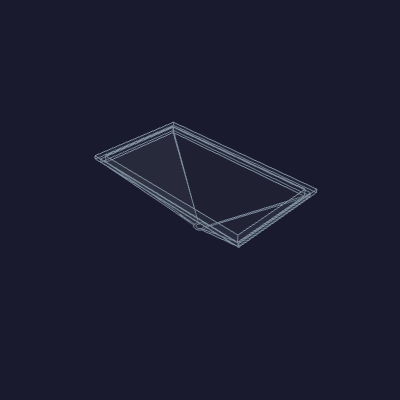
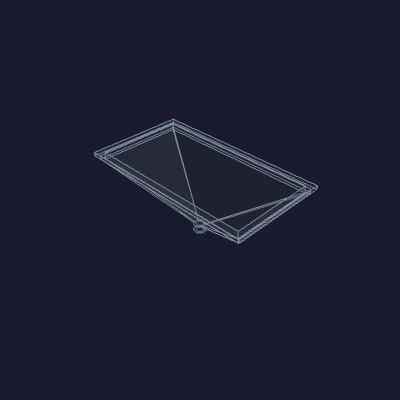
zone-c: slide bib-gate to the +X wall, extend the funnel spout 6 mm
The bib-gate tray slides +10.5 mm in X — right edge flush to the seam
lip's inner face (one wall in from the +X wall), as far as it goes before
fouling the lip. That clears the column just left of it, so the funnel's
spout continues 6 mm below the ramp tip as a straight tube, reaching
z=239 (the ramp tip still seats one mm above the tray at z=245). Zero
overlap vs all contents and both halves; content-vs-content all clear.

Changed region(s): [[0.24, 0.3, 0.81, 0.63]]

diff --git a/hardware/printed-parts/zone-c/hopper-funnel/hopper_funnel.py b/hardware/printed-parts/zone-c/hopper-funnel/hopper_funnel.py
@@ -39,6 +39,7 @@ brim_thickness = 3.0    # flange thickness, resting on the enclosure top
 collar_wall = 3.0       # straight press-fit collar wall (opening − bore)
 spout_id = 6.35         # 1/4" outlet bore
 spout_wall = 2.0        # spout wall at the tip
+spout_tube = 6.0        # straight spout tube continuing below the ramp tip
 tip_clearance = 1.0     # gap left above the tallest content under the mouth
 
 
@@ -92,34 +93,37 @@ def build():
     cx, cy = (x0 + x1) / 2.0, (y0 + y1) / 2.0
     bore_w, bore_d = w - 2.0 * collar_wall, d - 2.0 * collar_wall
     top_z = oz1 + brim_thickness                       # brim top = outermost point
-    tip_z = _tip_z((x0, x1, y0, y1), iz1)
+    tip_z = _tip_z((x0, x1, y0, y1), iz1)               # ramp tip (mouth → spout)
+    end_z = tip_z - spout_tube                          # straight tube reaches here
     spout_or = spout_id / 2.0 + spout_wall
 
-    # Outer: brim flange on top, straight collar through the wall, ramp to the spout.
+    # Outer: brim flange on top, straight collar through the wall, ramp to the
+    # spout, then a straight tube continuing the spout below the ramp tip.
     solid = (
         _box(w + 2.0 * brim_overhang, d + 2.0 * brim_overhang, oz1, top_z, cx, cy)
         .fuse(_box(w, d, iz1, oz1, cx, cy))
         .fuse(_ramp(w, d, spout_or, iz1, tip_z, cx, cy))
+        .fuse(_cyl(spout_or, tip_z, end_z, cx, cy))
     )
     # Bore: open rectangular mouth straight down through the collar, then ramping
-    # to the round spout and out the tip.
+    # to the round spout and out through the tube.
     cavity = (
         _box(bore_w, bore_d, iz1, top_z + 1.0, cx, cy)
         .fuse(_ramp(bore_w, bore_d, spout_id / 2.0, iz1, tip_z, cx, cy))
-        .fuse(_cyl(spout_id / 2.0, tip_z, tip_z - 2.0, cx, cy))
+        .fuse(_cyl(spout_id / 2.0, tip_z, end_z - 1.0, cx, cy))
     )
-    return cq.Workplane(obj=solid.cut(cavity)), (w, d, top_z - tip_z, tip_z)
+    return cq.Workplane(obj=solid.cut(cavity)), (w, d, top_z - end_z, end_z)
 
 
 def main():
-    funnel, (w, d, drop, tip_z) = build()
+    funnel, (w, d, drop, end_z) = build()
     out = _here.parent / "hopper-funnel.step"
     export_step(funnel, str(out))
     print(f"-> {out.name}")
     b = funnel.val().BoundingBox()
     print(f"  brim:    {b.xlen:.1f} × {b.ylen:.1f} mm, top z={b.zmax:.1f}")
     print(f"  mouth:   {w:.1f} × {d:.1f} mm (collar), bore {w - 2*collar_wall:.1f} × {d - 2*collar_wall:.1f}")
-    print(f"  spout:   Ø{spout_id:g} bore, tip z={tip_z:.1f}, total drop {drop:.1f} mm")
+    print(f"  spout:   Ø{spout_id:g} bore, {spout_tube:g} mm tube to z={end_z:.1f}, total drop {drop:.1f} mm")
 
     substitute_md(
         _here.parent / "README.md",

diff --git a/hardware/printed-parts/enclosure/enclosure-assembly/_contents.py b/hardware/printed-parts/enclosure/enclosure-assembly/_contents.py
@@ -66,6 +66,9 @@ FOAM_LIFT = 14.0
 # bottom seam lip so the split can pull forward past them. The box floors to a
 # fixed Z=0 datum, so raising them leaves the floor in place.
 SEAM_CLEAR_LIFT = 3.0
+# Enclosure wall thickness (mirrors ../enclosure/enclosure.py `wall`) — used to
+# seat content against the seam lip's inner face, one wall in from the inner wall.
+WALL = 3.0
 
 
 # --- Colors ---------------------------------------------------------------
@@ -147,7 +150,11 @@ def build():
     # (off the ±X corners, clear of the back half's top braces). The bib-gate
     # tray sits low in the right column, beneath the funnel reserve.
     bib = _rot(_load(TRAY_STEPS["bib-gate"]), (0, 0, 1), 90.0)  # 75 x 139
-    placed["bib-gate"]      = _at(bib, 195.0, 10.0, cond_top_z)
+    # Slid hard against the +X wall — right edge to the seam lip's inner face (one
+    # wall in from the inner wall, which the cold core's width sets). Clears the
+    # funnel tip's column to the left.
+    bib_x = (cold_w - WALL) - bib.BoundingBox().xlen
+    placed["bib-gate"]      = _at(bib, bib_x, 10.0, cond_top_z)
     placed["source-select"] = _at(_load(TRAY_STEPS["source-select"]), 10.0, FRONT_DEPTH, back_top_z)
     placed["bag-circuit"]   = _at(_load(TRAY_STEPS["bag-circuit"]),   10.0, FRONT_DEPTH + 96.0, back_top_z)
     placed["nozzle-gate"]   = _at(_load(TRAY_STEPS["nozzle-gate"]),  172.0, FRONT_DEPTH + 96.0, back_top_z)

diff --git a/hardware/printed-parts/zone-c/hopper-funnel/README.md b/hardware/printed-parts/zone-c/hopper-funnel/README.md
@@ -17,9 +17,10 @@ drops straight into the opening:
   6 mm of straight rectangular wall pressing the opening sides.
 - **Ramp + spout.** Below the collar the bore ramps from the rectangular mouth
   down to a round [6.35 mm](HOPPER_SPOUT_ID) spout (1/4", matching the pump
-  tubing) that hangs into the funnel reserve. The drop is [53 mm](HOPPER_DROP),
-  set live to stop one mm above the tallest content under the mouth (the bib-gate
-  tray) — exactly the room the current packing leaves.
+  tubing) that hangs into the funnel reserve. The ramp tip is set live to one mm
+  above the tallest content under the mouth (the bib-gate tray); a short straight
+  tube then continues the spout 6 mm lower, into the room freed by sliding that
+  tray against the +X wall. Total drop [59 mm](HOPPER_DROP) below the brim.
 
 The collar footprint is taken from the enclosure's opening rectangle
 (`enclosure.py` `_hopper_hole`), so the funnel and hole always match.
